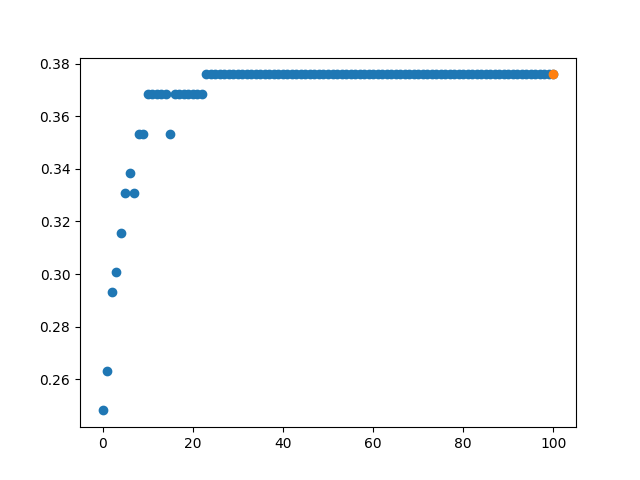
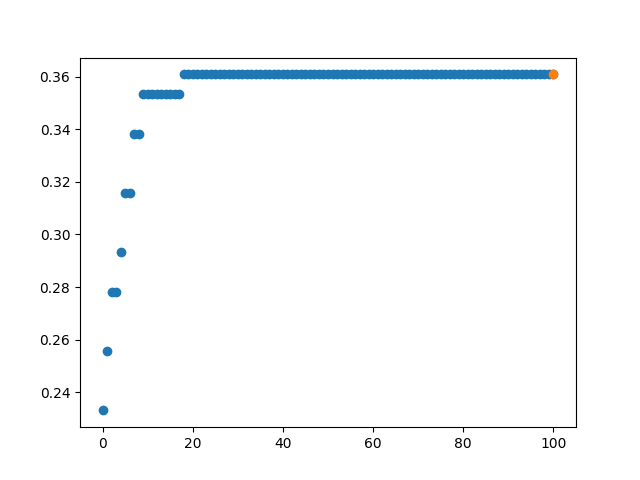
Correcao Bug Busca local

diff --git a/RescueSimulator/pkg/localSearch.py b/RescueSimulator/pkg/localSearch.py
@@ -149,13 +149,11 @@ class LocalSearch():
         for neighbour in neighbours:
             if(len(neighbour)<=1):
                 continue
-            numSwap = int(len(neighbour)/10)+2
-            for swap in range(numSwap):
-                newNeighbour = deepcopy(neighbour)
-                randVict = random.sample(list(range(len(newNeighbour))),2)
-                newNeighbour[randVict[0]],newNeighbour[randVict[1]] = newNeighbour[randVict[1]],newNeighbour[randVict[0]]
-                if self.calcCostSolution(newNeighbour)<=ts:
-                    newNeighbours.append(newNeighbour)  
+            newNeighbour = deepcopy(neighbour)
+            randVict = random.sample(list(range(len(newNeighbour))),2)
+            newNeighbour[randVict[0]],newNeighbour[randVict[1]] = newNeighbour[randVict[1]],newNeighbour[randVict[0]]
+            if self.calcCostSolution(newNeighbour)<=ts:
+                newNeighbours.append(newNeighbour)  
         neighbours+=newNeighbours
 
     def addVictim(self,neighbours,ts):
@@ -170,6 +168,7 @@ class LocalSearch():
                 vicNeighbours.remove(new)
 
                 if self.calcCostSolution(newNeighbour)<=ts:
+                    #neighbours.append(newNeighbour)
                     neighbours[n] = newNeighbour
                     break
 
@@ -177,6 +176,7 @@ class LocalSearch():
 
         neighbours = self.createNeighbours(solution,num,ts)
         neighbours.append(solution)
+
         for i in range(numSwap):
             self.swapNeighbours(neighbours,ts)
         self.addVictim(neighbours,ts)
@@ -184,13 +184,11 @@ class LocalSearch():
         eval = [self.evaluateSolution(solution) for solution in neighbours]
         cost = [self.calcCostSolution(solution) for solution in neighbours]
 
-        #bestEval = max(eval)
-        #indexBest = eval.index(bestEval)
         maxEval = max(eval)
         bestEval = [i for i,v in enumerate(eval) if v == maxEval]
         
         minCost = cost[bestEval[0]]
-        indexBest = 0
+        indexBest = bestEval[0]
         for e in bestEval:
             if cost[e]<minCost:
                 indexBest = e
@@ -198,7 +196,7 @@ class LocalSearch():
 
         return neighbours[indexBest],maxEval
 
-    def localSearch(self,ts,num:int=20,nNei=5,numIt=100,test=False):
+    def localSearch(self,ts,nSolutions:int=20,nNei=5,numIt=100,test=False):
         solutions = []
         eval = []
         cost = []
@@ -218,34 +216,30 @@ class LocalSearch():
         ev = {'iteracao':[],
                 'eval':[]}
 
-        for i in range(num):
+        for i in range(nSolutions):
             sol = self.createSolution(ts,cost)
             solutions.append(sol)
             eval.append(self.evaluateSolution(sol))
-        n = numIt
 
         print('Calculando Trajetória...')
-        for i in range(n):
+        for i in range(numIt):
             for sol in range(len(solutions)):
                 bestNeighbour = self.chooseBestNeighbours(solutions[sol],nNei,ts,5)
                 solutions[sol] = bestNeighbour[0]
                 eval[sol] = bestNeighbour[1]
                 cost[sol] = self.calcCostSolution(solutions[sol])
 
-            #APAGAR
             maxEval = max(eval)
             ev['iteracao'].append(i)
             ev['eval'].append(maxEval)
-            print(f'{i/n*100:.2f}%',end="\r")
 
-        #bestEval = max(eval)
-        #indexBest = eval.index(bestEval)
+            print(f'{i/numIt*100:.2f}%',end="\r")
 
         maxEval = max(eval)
         bestEval = [i for i,v in enumerate(eval) if v == maxEval]
         
         #APAGAR
-        ev['iteracao'].append(n)
+        ev['iteracao'].append(numIt)
         ev['eval'].append(maxEval)
 
         minCost = cost[bestEval[0]]
@@ -258,7 +252,7 @@ class LocalSearch():
         path = self.createPath(solutions[indexBest])
 
         dataFrame = pd.DataFrame(ev)
-        dirPath = os.path.join("resultados",str(n)+'Iterações')
+        dirPath = os.path.join("resultados",str(numIt)+'Iterações')
         
         plt.scatter(x=dataFrame['iteracao'],y=dataFrame['eval'])
         plt.savefig(dirPath)

diff --git a/RescueSimulator/pkg/testeBuscaLocal.py b/RescueSimulator/pkg/testeBuscaLocal.py
@@ -36,6 +36,7 @@ class TesteBuscaLocal():
         numMinIt = 100
         numMaxIt = 101
         numVizinhos = 20
+        nSolutions = 20
         ts = 100
 
         plt.ioff()
@@ -53,7 +54,7 @@ class TesteBuscaLocal():
             local.victims = chosenV
 
             start_time = time.time()
-            eval = local.localSearch(ts,numVizinhos,i,True)
+            eval = local.localSearch(ts,nSolutions,numVizinhos,i,test=True)
             timeDif = time.time() - start_time
 
             dados['numIt'].append(i)
